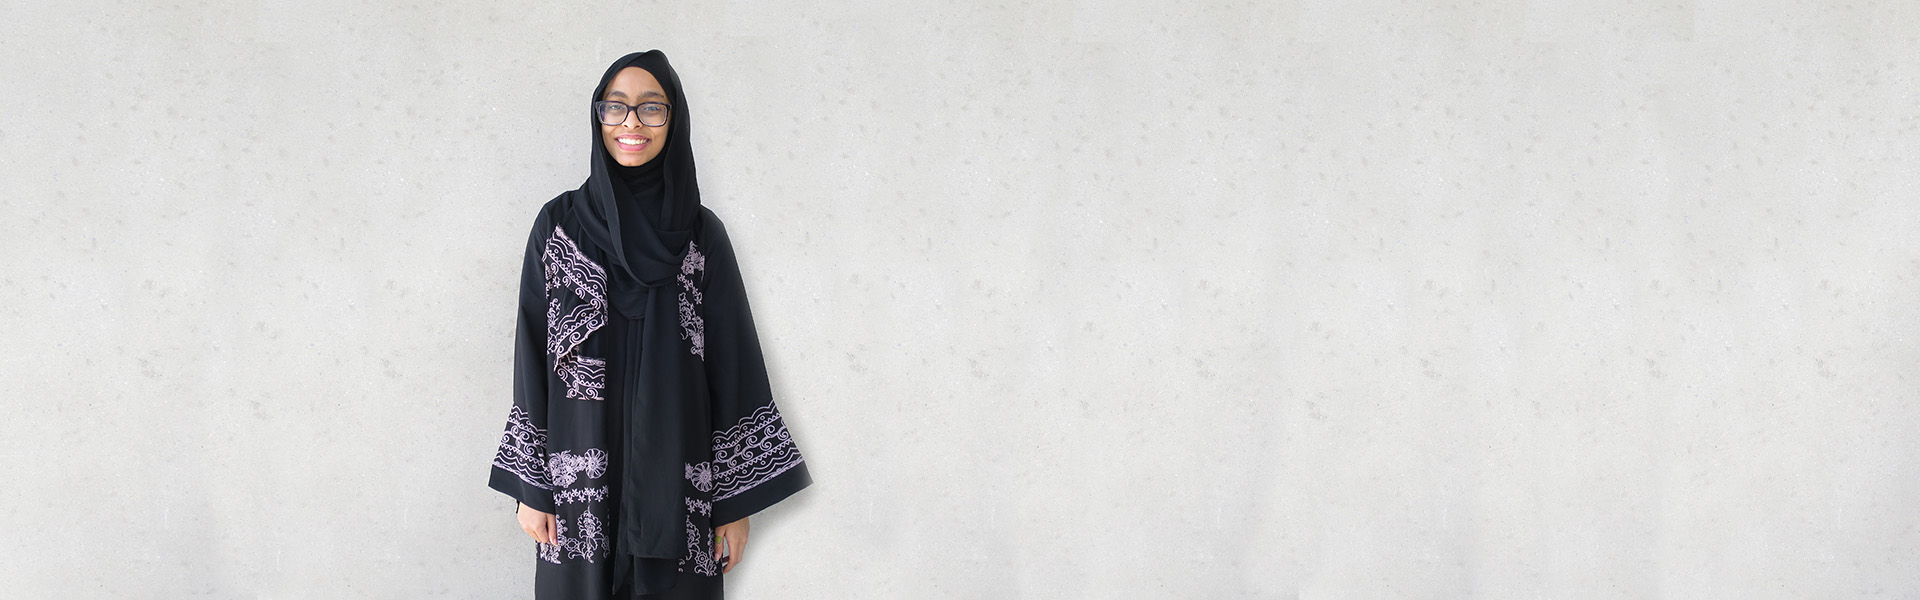
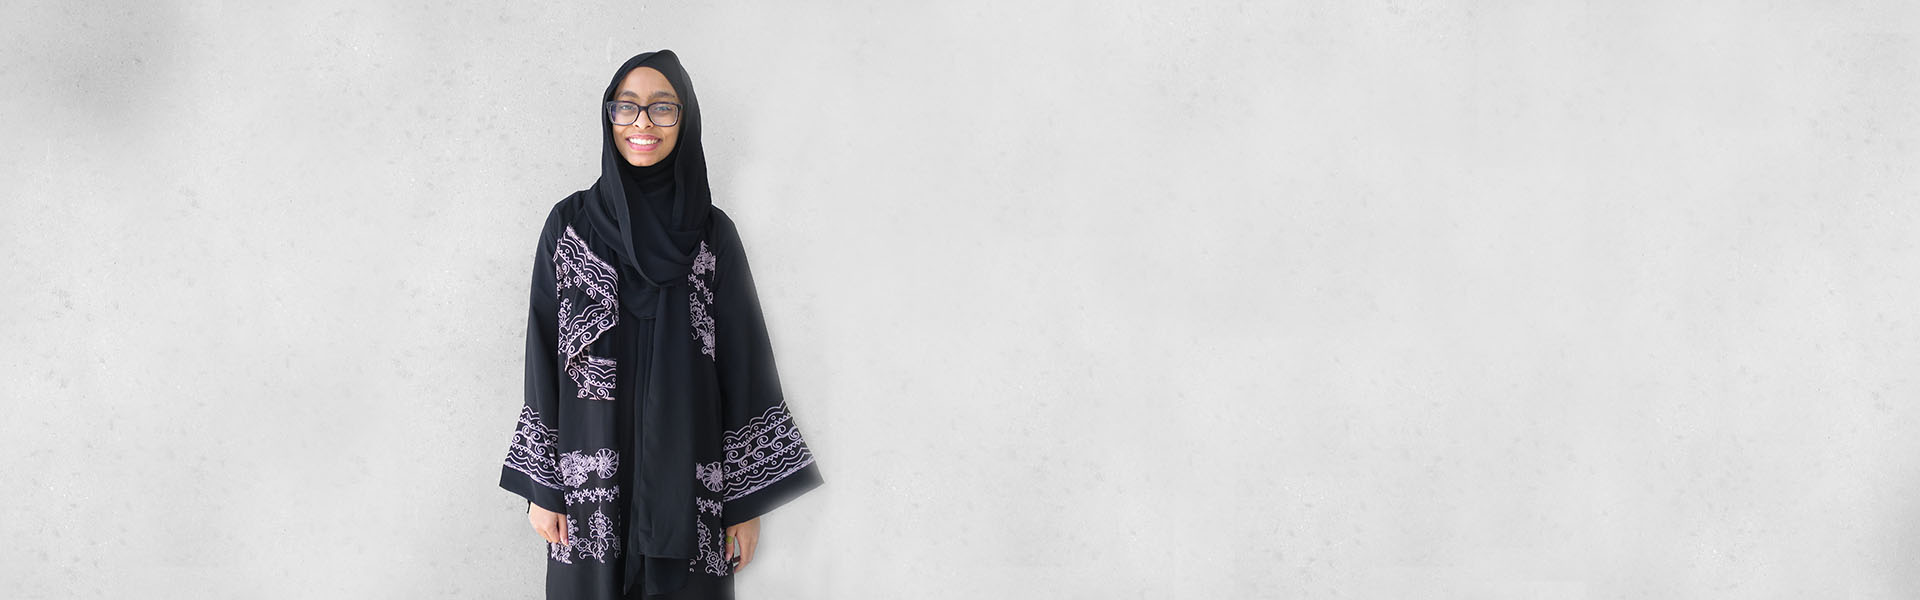
About pics updated

Changed region(s): [[0.25, 0.09, 0.4375, 1.0], [0.0312, 0.06, 0.0938, 0.18]]

diff --git a/routes/views/about.js b/routes/views/about.js
@@ -33,8 +33,8 @@ teamArray = [{
                   "id":4,
                   "year":"Sophomore",
                   "origin":"",
-                  "srcScreen":"/images/team/module/adam.jpg",
-                  "srcThumb":"/images/team/module/adam-thumb.jpg",
+                  "srcScreen":"/images/team/module/frederik.jpg",
+                  "srcThumb":"/images/team/module/frederik-thumb.jpg",
                   "topic":"",
                   "text":"<p></p>"
                 },
@@ -43,8 +43,8 @@ teamArray = [{
                   "id":5,
                   "year":"Sophomore",
                   "origin":"Pakistan",
-                  "srcScreen":"/images/team/module/adam.jpg",
-                  "srcThumb":"/images/team/module/adam-thumb.jpg",
+                  "srcScreen":"/images/team/module/shujaat.jpg",
+                  "srcThumb":"/images/team/module/shujaat-thumb.jpg",
                   "topic":"",
                   "text":"<p>Hey there! I’m Shujaat from Pakistan. Born and raised in the country, I went on to live in Islamabad for a couple of years before joining NYUAD. I am majoring in Computer Science with a concentration in Interactive Media. I am part of TEDxNYUAD because of the inspiration I felt upon hearing some of the stories at last year’s event. In my spare time, I like writing code, flying kites and watching cricket.</p>"
                 },
@@ -53,8 +53,8 @@ teamArray = [{
                   "id":6,
                   "year":"",
                   "origin":"Sri Lanka/Peru",
-                  "srcScreen":"/images/team/module/adam.jpg",
-                  "srcThumb":"/images/team/module/adam-thumb.jpg",
+                  "srcScreen":"/images/team/module/empty.jpg",
+                  "srcThumb":"/images/team/module/X.jpg",
                   "topic":"",
                   "text":"<p>Hi there! I’m Harshini, an Asian-Latino with a passion for photography. Born and raised in Sri Lanka, but I am also half Peruvian. Last year, I helped on marketing and logistics for the inaugral TEDxNYUAD. This year I am part of the Leadership team and coordingaing with speakers in New York! I’m someone who’s nocturnal and so I go to sleep really late but at the same time there never seems to be enough hours in a day. Two things I really love is the sound of birds chirping in the morning, and being part of TEDxNYUAD!</p>"
                 },
@@ -63,8 +63,8 @@ teamArray = [{
                   "id":7,
                   "year":"Freshmen",
                   "origin":"Bulgaria",
-                  "srcScreen":"/images/team/module/adam.jpg",
-                  "srcThumb":"/images/team/module/adam-thumb.jpg",
+                  "srcScreen":"/images/team/module/theo.jpg",
+                  "srcThumb":"/images/team/module/theo-thumb.jpg",
                   "topic":"",
                   "text":"<p>Theodore was born and raised in Bulgaria, where he attended an international school. Currently he is pursuing a Computer Science degree in New York University, Abu Dhabi. Theodore’s personal passion is information security, while hobbies include playing tennis and golf, as well as watching all genres of movies. </p>"
                 },
@@ -73,8 +73,8 @@ teamArray = [{
                   "id":8,
                   "year":"Freshmen",
                   "origin":"Ukraine",
-                  "srcScreen":"/images/team/module/adam.jpg",
-                  "srcThumb":"/images/team/module/adam-thumb.jpg",
+                  "srcScreen":"/images/team/module/mia.jpg",
+                  "srcThumb":"/images/team/module/mia-thumb.jpg",
                   "topic":"",
                   "text":"<p>Hello there! My name is Mia. Born in Kiev, Ukraine, I now live in a beautiful country Slovenia. Before coming to NYUAD to pursue an Economics major, I was part of multiple Slovene music ensembles. I always travel with a book of Pushkin’s poems, I am a neat freak, and I eat my cereal with hot (has to be hot) almond milk. I’m part of TEDxNYUAD because I want to help NYUAD students create and share their inspiring stories. In my spare time I enjoy watching musicals, hiking with my dogs and reading as many articles on psychology of human relationships as I can find.</p>"
                 },
@@ -83,8 +83,8 @@ teamArray = [{
                   "id":9,
                   "year":"Sophomore",
                   "origin":"UAE",
-                  "srcScreen":"/images/team/module/adam.jpg",
-                  "srcThumb":"/images/team/module/adam-thumb.jpg",
+                  "srcScreen":"/images/team/module/maitha.jpg",
+                  "srcThumb":"/images/team/module/maitha-thumb.jpg",
                   "topic":"",
                   "text":"<p>Yo, my name is Maitha AlMemari, I am from Abu Dhabi and I am a NYUAD sophomore majoring in Social Research and Public Policy. I was a TEDx speaker last year which was a great rewarding experience that I was not ready to let go of, so this year I am on the other side of the table and helping with organising the event as well as working with speakers. My passions vary from donuts to environmental law and during my spare time I enjoy checking out the latest space exploration technologies and plan ways to go to the moon.</p>"
                 },
@@ -93,8 +93,8 @@ teamArray = [{
                   "id":10,
                   "year":"Sophomore",
                   "origin":"Pakistan",
-                  "srcScreen":"/images/team/module/adam.jpg",
-                  "srcThumb":"/images/team/module/adam-thumb.jpg",
+                  "srcScreen":"/images/team/module/empty.jpg",
+                  "srcThumb":"/images/team/module/X.jpg",
                   "topic":"",
                   "text":"<p>My name is Safa Kashaf. I am currently a sophomore studying Civil Engineering with a concentration in The Environment. My ultimate dream is to one day go to law school and study Energy and Environmental Law and Policy. I'm a die hard Brazilian football fan, a huge supporter of breakfast in bed and love reading historical fiction and watching crime shows. I'm passionate about debate, public speaking and story telling and hope that in my time with TEDxNYUAD I can inspire those around me to find their voice and share their unique stories, skills and perspectives.</p>"
                 },
@@ -103,8 +103,8 @@ teamArray = [{
                   "id":11,
                   "year":"Sophomore",
                   "origin":"Montenegro",
-                  "srcScreen":"/images/team/module/adam.jpg",
-                  "srcThumb":"/images/team/module/adam-thumb.jpg",
+                  "srcScreen":"/images/team/module/jovan.jpg",
+                  "srcThumb":"/images/team/module/jovan-thumb.jpg",
                   "topic":"",
                   "text":"<p>Jovan is a sophomore computer engineering student at NYUAD. Born in Serbia and raised in Montenegro, Jovan spent two years in Slovenia before coming to Abu Dhabi. Upon coming to NYUAD, he engaged in a handful of activities, among which are the work in synthetic biology and the work in underwater drone technology. Other than that, Jovan is a passionate chess player and last April he gave a TEDx talk on blindfold chess. Rumors are he actually does that in spare time! Jovan enjoys football and sometimes eats nutella and cheese. Other than that, he is a good guy.</p>"
                 },
@@ -113,8 +113,8 @@ teamArray = [{
                   "id":12,
                   "year":"",
                   "origin":"South Korea",
-                  "srcScreen":"/images/team/module/adam.jpg",
-                  "srcThumb":"/images/team/module/adam-thumb.jpg",
+                  "srcScreen":"/images/team/module/lauren.jpg",
+                  "srcThumb":"/images/team/module/lauren-thumb.jpg",
                   "topic":"",
                   "text":"<p>Hi, my name is Lauren You. I’m from Seoul but have spent almost half of my life in Penang and Beijing. I like doing the most random things in my free time including (but not limited to) looking at stars, standing in the breeze, and listening to ocean waves! I value the little things in life and believe in learning through experience. With that said, TEDx makes me appreciate life more by bringing my attention to the simple but meaningful aspects of life as well as introducing me to novel and creative ideas.</p>"
                 },
@@ -123,8 +123,8 @@ teamArray = [{
                   "id":13,
                   "year":"",
                   "origin":"Australia",
-                  "srcScreen":"/images/team/module/adam.jpg",
-                  "srcThumb":"/images/team/module/adam-thumb.jpg",
+                  "srcScreen":"/images/team/module/will.jpg",
+                  "srcThumb":"/images/team/module/Will-thumb.jpg",
                   "topic":"",
                   "text":"<p>William Young, a Mechanical Engineering student from Australia has been involved in various projects and leadership roles with NYUAD and UAE organisations! He is an enthusiastic basketball player, cyclist and runner and was awarded the Al Khayr Award for Healthy Living for encouraging others to embrace a healthy lifestyle. William enjoys his current Residential Assistant, TEDxNYUAD and Google Student Club roles as he appreciates the personal development and opportunity to contribute back to the community.</p>"
                 },
@@ -133,8 +133,8 @@ teamArray = [{
               "id":14,
               "year":"Sophomore",
               "origin":"The Netherlands",
-              "srcScreen":"/images/team/module/stephen.jpg",
-              "srcThumb":"/images/team/module/stephen-thumb.jpg",
+              "srcScreen":"/images/team/module/empty.jpg",
+              "srcThumb":"/images/team/module/X.jpg",
               "topic":"",
               "text":"<p>Hi there! My name is Stephen, I was born and raised in Amsterdam, the Netherlands. Being part of TEDxNYU's Global Ops team has shown me what an impact TEDx can have on our communities (and beyond), which is why I joined the TEDxNYUAD team! I'm particularly good at putting together IKEA furniture and love the sound of a tennis ball scratching the net. </p>"
             },
@@ -143,8 +143,8 @@ teamArray = [{
               "id":15,
               "year":"Sophomore",
               "origin":"The Netherlands",
-              "srcScreen":"/images/team/module/stephen.jpg",
-              "srcThumb":"/images/team/module/stephen-thumb.jpg",
+              "srcScreen":"/images/team/module/empty.jpg",
+              "srcThumb":"/images/team/module/X.jpg",
               "topic":"",
               "text":"<p></p>"
             }];
